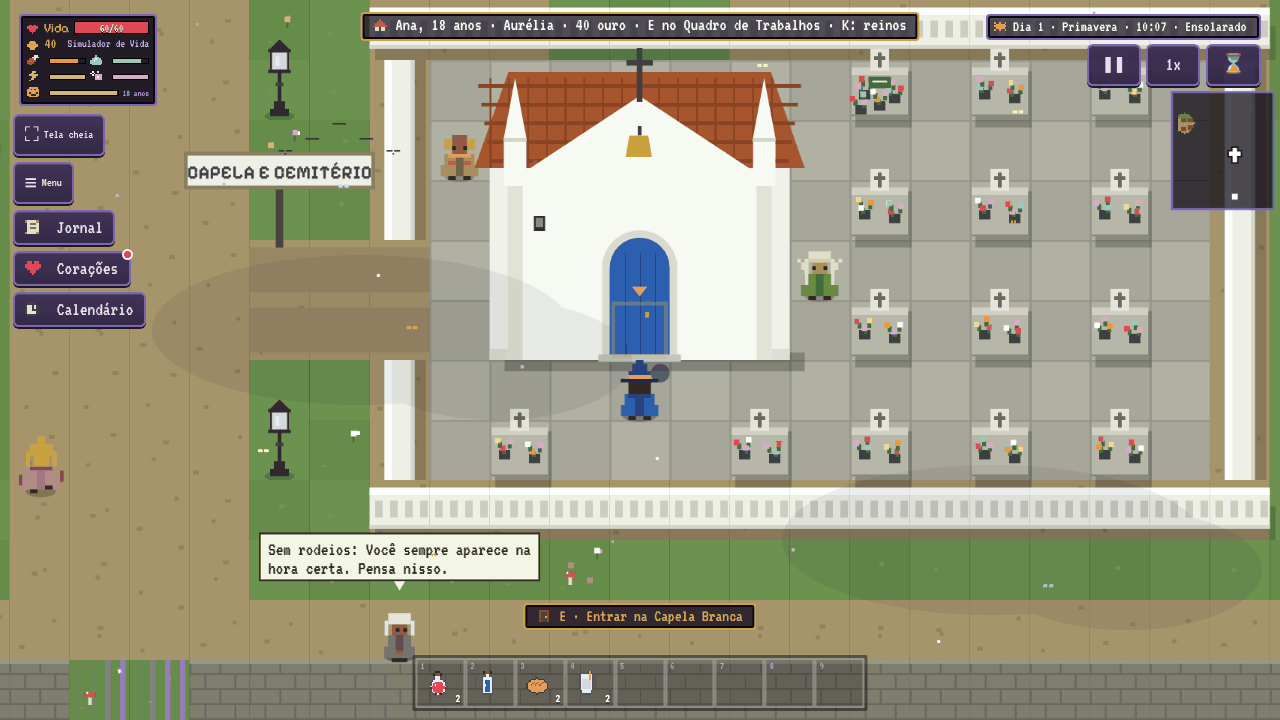
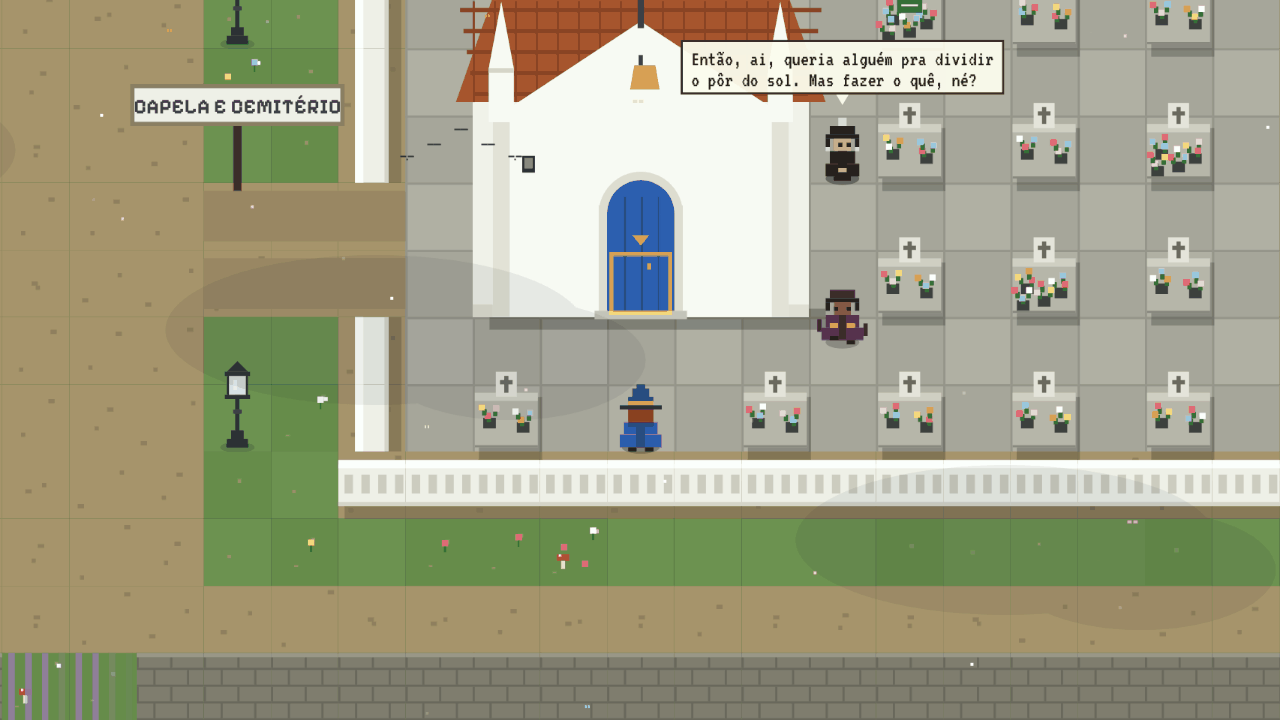
README: fotos novas mais bonitas e retrato da Fênix do Farol
- 14 capturas refeitas: câmera mais perto, fim de tarde, sem botões na frente
- Destaque: As Seis Vozes; batalha contra a Fênix, taverna, capela, porto, gatinhos da Andressa
- Retrato da Fênix do Farol na tabela de chefes

Claude-Session: https://claude.ai/code/session_01YBA9s8XnYJneddHbd6xUF3

diff --git a/README.md b/README.md
@@ -29,7 +29,7 @@
 
 <br>
 
-<img src="assets/screenshots/titulo.png" width="860" alt="Tela inicial do Ecos do Arcano"/>
+<img src="assets/screenshots/seisvozes.png" width="860" alt="As Seis Vozes, no Ecos do Arcano"/>
 
 </div>
 
@@ -121,23 +121,23 @@ O jogo tem **dois modos**:
 
 | | |
 |:---:|:---:|
-| <img src="assets/screenshots/vila.png" width="420"/><br><sub>A praça de Cinzaluz</sub> | <img src="assets/screenshots/dons.png" width="420"/><br><sub>Escolha o seu dom: um pedaço de uma das seis runas</sub> |
-| <img src="assets/screenshots/batalha.png" width="420"/><br><sub>Batalha contra o Ent Silenciado</sub> | <img src="assets/screenshots/covil.png" width="420"/><br><sub>O Covil do Ent e os Ecos Perdidos</sub> |
+| <img src="assets/screenshots/historia.png" width="420"/><br><sub>A praça de Cinzaluz no Modo História</sub> | <img src="assets/screenshots/dons.png" width="420"/><br><sub>Escolha o seu dom: um pedaço de uma das seis runas</sub> |
+| <img src="assets/screenshots/batalha.png" width="420"/><br><sub>Batalha contra a Fênix do Farol, à noite</sub> | <img src="assets/screenshots/seisvozes.png" width="420"/><br><sub>As Seis Vozes: o momento em que as runas se reúnem</sub> |
 
 ### 🏡 Na vida em Cinzaluz
 
 | | |
 |:---:|:---:|
+| <img src="assets/screenshots/vila.png" width="420"/><br><sub>Fim de tarde na praça, com a turma</sub> | <img src="assets/screenshots/taverna.png" width="420"/><br><sub>A Taverna Javali Dourado cheia: cardápio, dados, dardos e dança</sub> |
 | <img src="assets/screenshots/capela.png" width="420"/><br><sub>A Capela Branca e o cemitério do Alto do Descanso</sub> | <img src="assets/screenshots/comunismo.png" width="420"/><br><sub>Luca eleito: bandeiras vermelhas no castelo</sub> |
-| <img src="assets/screenshots/coracoes.png" width="420"/><br><sub>Corações, o "Tinder" da vila</sub> | <img src="assets/screenshots/match.png" width="420"/><br><sub>Deu match!</sub> |
-| <img src="assets/screenshots/calendario.png" width="420"/><br><sub>Calendário com festas, eleição, exposições e casamentos</sub> | <img src="assets/screenshots/jornal.png" width="420"/><br><sub>O Eco de Cinzaluz, o jornal do dia</sub> |
+| <img src="assets/screenshots/porto.png" width="420"/><br><sub>Porto Brisamar e o Mestre do Cais</sub> | <img src="assets/screenshots/gatos.png" width="420"/><br><sub>A Andressa passeando com os gatinhos</sub> |
+| <img src="assets/screenshots/coracoes.png" width="420"/><br><sub>Corações, o "Tinder" da vila</sub> | <img src="assets/screenshots/abrigo.png" width="420"/><br><sub>O Abrigo dos Bichos</sub> |
 
-### 🎒 Criador e bolsa
+### 🎒 Criador e barra de itens
 
 | | |
 |:---:|:---:|
-| <img src="assets/screenshots/criador.png" width="420"/><br><sub>Crie o seu personagem</sub> | <img src="assets/screenshots/bolsa.png" width="420"/><br><sub>A bolsa, com a barra de itens no pé</sub> |
-| <img src="assets/screenshots/barra.png" width="420" /><br><sub>Barra de itens embaixo da tela, como no Minecraft</sub> | |
+| <img src="assets/screenshots/criador.png" width="420"/><br><sub>Crie o seu personagem</sub> | <img src="assets/screenshots/barra.png" width="420"/><br><sub>Barra de itens embaixo da tela, como no Minecraft</sub> |
 
 </div>
 
@@ -288,7 +288,7 @@ Os criadores do jogo viraram personagens, com seus parceiros. Cada um tem **casa
 | | Chefe | Onde |
 |:---:|:---|:---|
 | <img src="assets/personagens/boss_ent.png" width="60"/> | **Ent Silenciado** | 🌲 Bosque Murmurante |
-| | **Fênix do Farol** | ⚓ Farol de Brisamar (à noite) |
+| <img src="assets/personagens/boss_fenix.png" width="60"/> | **Fênix do Farol** | ⚓ Farol de Brisamar (à noite) |
 | <img src="assets/personagens/boss_serpente.png" width="60"/> | **Serpente de Névoa** | 🌫 Pântano das Brumas |
 | <img src="assets/personagens/boss_grifo.png" width="60"/> | **Grifo de Pedra** | 🏔 Picos Uivantes |
 | <img src="assets/personagens/boss_basilisco.png" width="60"/> | **Basilisco de Cristal** | ⛏ Mina de Cristal |
